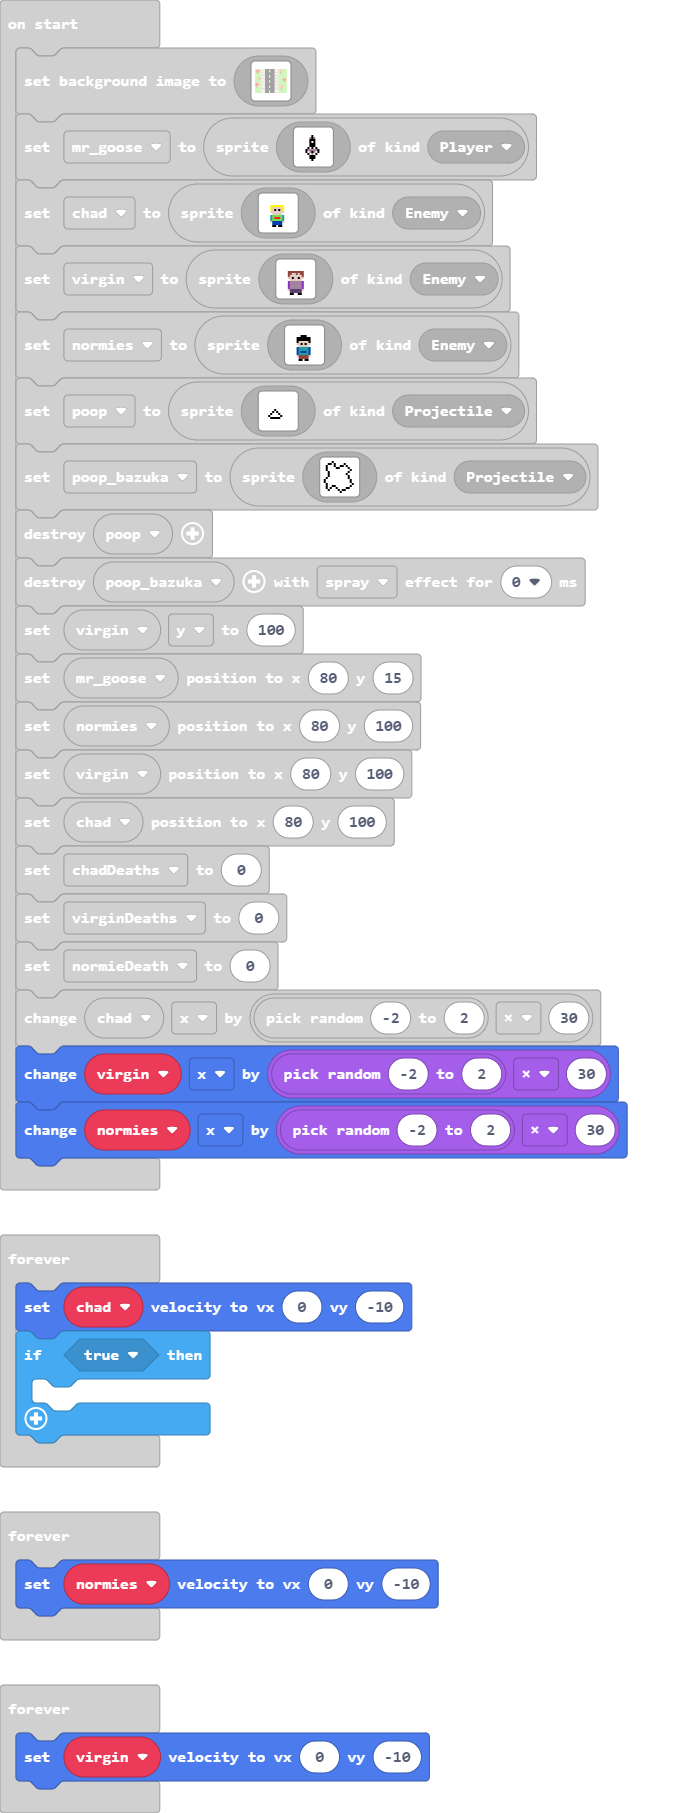
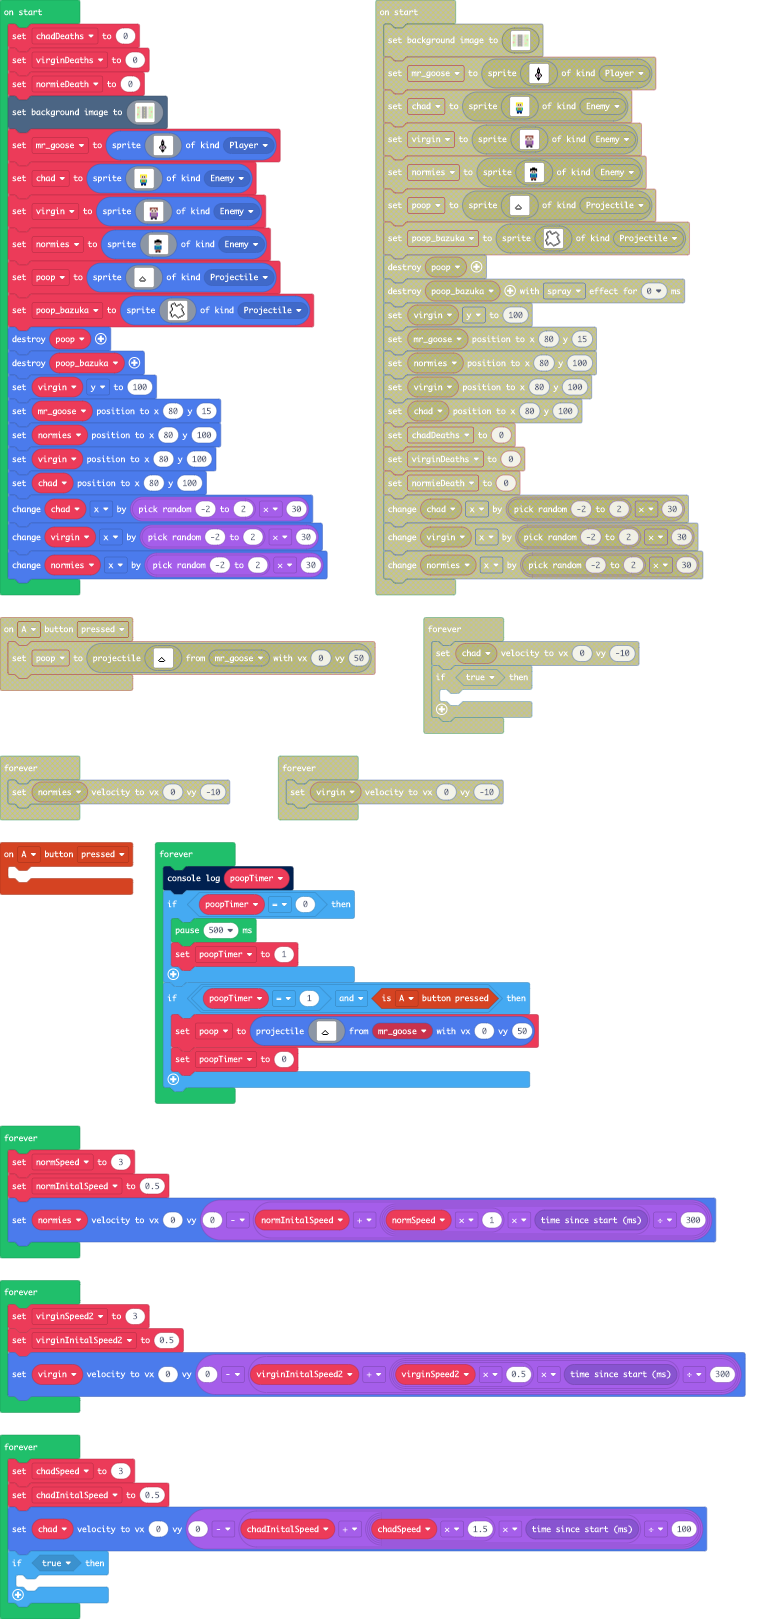
speed adjustment and poop timer

diff --git a/main.ts b/main.ts
@@ -1,22 +1,5 @@
 controller.A.onEvent(ControllerButtonEvent.Pressed, function () {
-    poop = sprites.createProjectileFromSprite(img`
-        . . . . . . . . . . . . . . . . 
-        . . . . . . . . . . . . . . . . 
-        . . . . . . . . . . . . . . . . 
-        . . . . . . . . . . . . . . . . 
-        . . . . . . . . . . . . . . . . 
-        . . . . . . . . . . . . . . . . 
-        . . . . . . . . . . . . . . . . 
-        . . . . . . f . . . . . . . . . 
-        . . . . . f 1 f . . . . . . . . 
-        . . . . f 1 1 1 f . . . . . . . 
-        . . . f 1 1 1 1 1 f . . . . . . 
-        . . . . f f f f f . . . . . . . 
-        . . . . . . . . . . . . . . . . 
-        . . . . . . . . . . . . . . . . 
-        . . . . . . . . . . . . . . . . 
-        . . . . . . . . . . . . . . . . 
-        `, mr_goose, 0, 50)
+	
 })
 controller.left.onEvent(ControllerButtonEvent.Pressed, function () {
     mr_goose.x += -30
@@ -30,8 +13,17 @@ controller.right.onEvent(ControllerButtonEvent.Pressed, function () {
         mr_goose.setPosition(140, 15)
     }
 })
-let poop: Sprite = null
+let chadInitalSpeed = 0
+let chadSpeed = 0
+let virginInitalSpeed2 = 0
+let virginSpeed2 = 0
+let normInitalSpeed = 0
+let normSpeed = 0
+let poopTimer = 0
 let mr_goose: Sprite = null
+let chadDeaths = 0
+let virginDeaths = 0
+let normieDeath = 0
 scene.setBackgroundImage(img`
[2 lines of base64/hex data omitted]
@@ -226,7 +218,7 @@ let normies = sprites.create(img`
     . . . . . e e e e e . . . . . . 
     . . . . . f f . f f . . . . . . 
     `, SpriteKind.Enemy)
-poop = sprites.create(img`
+let poop = sprites.create(img`
     . . . . . . . . . . . . . . . . 
     . . . . . . . . . . . . . . . . 
     . . . . . . . . . . . . . . . . 
@@ -269,21 +261,52 @@ mr_goose.setPosition(80, 15)
 normies.setPosition(80, 100)
 virgin.setPosition(80, 100)
 chad.setPosition(80, 100)
-let chadDeaths = 0
-let virginDeaths = 0
-let normieDeath = 0
 chad.x += randint(-2, 2) * 30
 virgin.x += randint(-2, 2) * 30
 normies.x += randint(-2, 2) * 30
 forever(function () {
-    chad.setVelocity(0, -10)
-    if (true) {
-    	
+    console.log(poopTimer)
+    if (poopTimer == 0) {
+        pause(500)
+        poopTimer = 1
+    }
+    if (poopTimer == 1 && controller.A.isPressed()) {
+        poop = sprites.createProjectileFromSprite(img`
+            . . . . . . . . . . . . . . . . 
+            . . . . . . . . . . . . . . . . 
+            . . . . . . . . . . . . . . . . 
+            . . . . . . . . . . . . . . . . 
+            . . . . . . . . . . . . . . . . 
+            . . . . . . . . . . . . . . . . 
+            . . . . . . . . . . . . . . . . 
+            . . . . . . f . . . . . . . . . 
+            . . . . . f 1 f . . . . . . . . 
+            . . . . f 1 1 1 f . . . . . . . 
+            . . . f 1 1 1 1 1 f . . . . . . 
+            . . . . f f f f f . . . . . . . 
+            . . . . . . . . . . . . . . . . 
+            . . . . . . . . . . . . . . . . 
+            . . . . . . . . . . . . . . . . 
+            . . . . . . . . . . . . . . . . 
+            `, mr_goose, 0, 50)
+        poopTimer = 0
     }
 })
 forever(function () {
-    normies.setVelocity(0, -10)
+    normSpeed = 3
+    normInitalSpeed = 0.5
+    normies.setVelocity(0, 0 - (normInitalSpeed + normSpeed * 1 * game.runtime() / 300))
 })
 forever(function () {
-    virgin.setVelocity(0, -10)
+    virginSpeed2 = 3
+    virginInitalSpeed2 = 0.5
+    virgin.setVelocity(0, 0 - (virginInitalSpeed2 + virginSpeed2 * 0.5 * game.runtime() / 300))
+})
+forever(function () {
+    chadSpeed = 3
+    chadInitalSpeed = 0.5
+    chad.setVelocity(0, 0 - (chadInitalSpeed + chadSpeed * 1.5 * game.runtime() / 100))
+    if (true) {
+    	
+    }
 })
